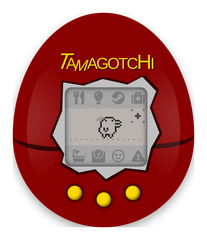
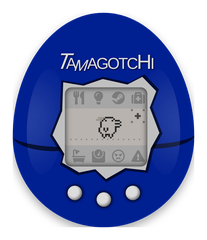
Tamagotchi-Button: blaue Variante + etwas kleiner
- img/tama-btn.png: Neurender in der blauen Tagesfarbe (#001F91 mit hellen
  Knöpfen) statt Rot.
- css/tamagotchi.css: Button-Bild von 46px auf 40px Höhe verkleinert.

Claude-Session: https://claude.ai/code/session_01QSG2d9dvfaiEmqxNpEB61U

diff --git a/css/tamagotchi.css b/css/tamagotchi.css
@@ -59,7 +59,7 @@
    Button (Screenshot des LCD-Geräts, s. img/tama-btn.png). Das hohe Ei füllt
    den runden Button fast komplett und behält sein Seitenverhältnis. */
 #tamaBtn img{
-  width:auto;height:46px;display:block;
+  width:auto;height:40px;display:block;
   object-fit:contain;pointer-events:none;user-select:none;
   filter:drop-shadow(0 2px 4px rgba(0,0,0,.45));
   transition:transform .18s ease;
